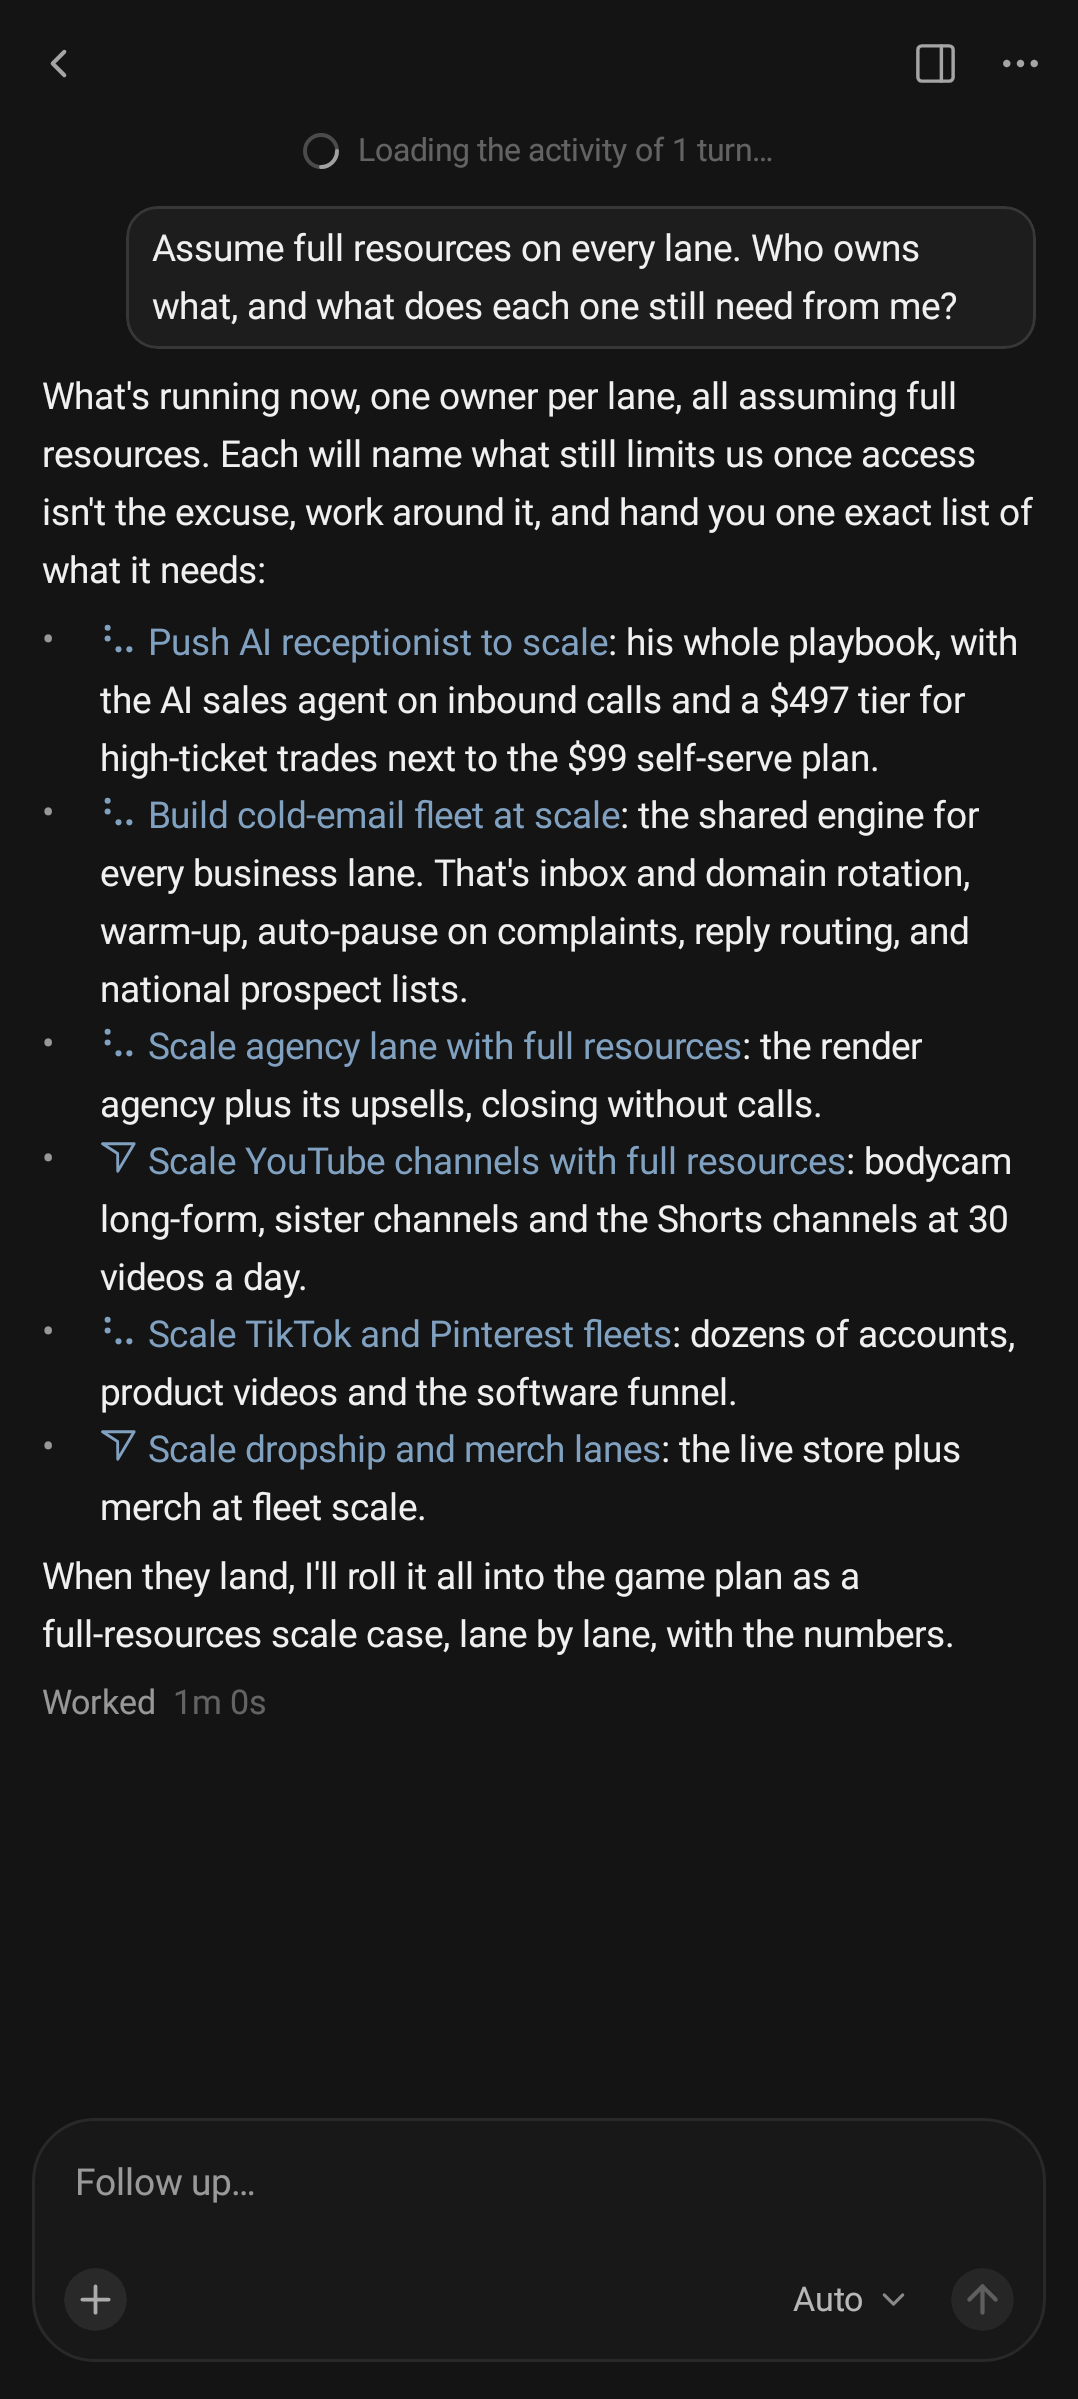
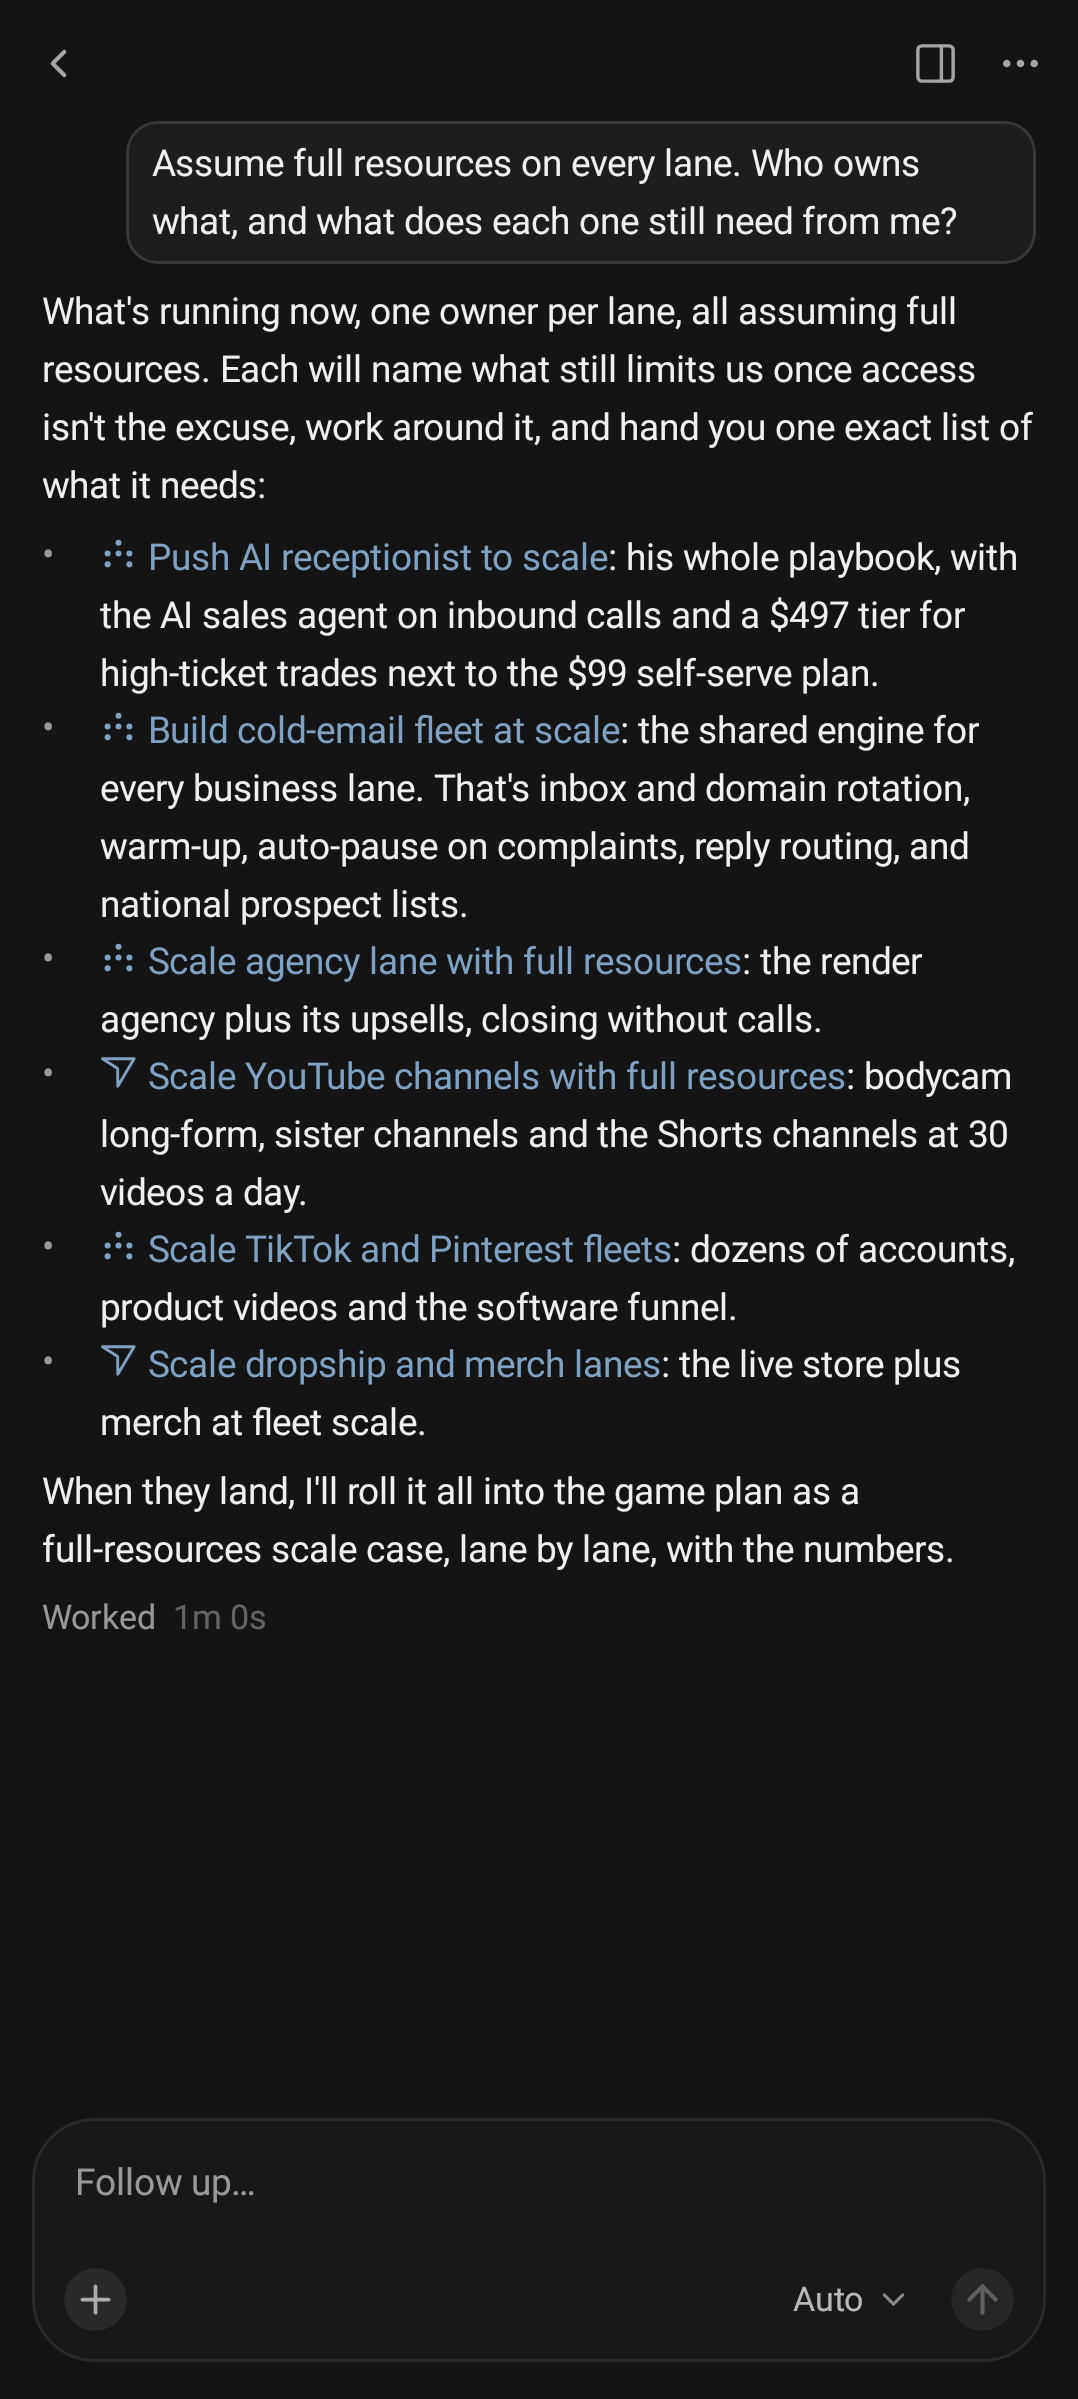
Capture agent link goldens and demo with the dot grid animating
The screenshot test paused the clock only after composing, so the harness had
already cancelled RunningGlyph's frame loop and every frame showed step one.
Pause before composing, step frames while loading, snap to a fixed phase of
the loop for the goldens, and serve the coordinator run's log whole so no
loading spinner sits above the chat.

Changed region(s): [[0.0306, 0.0617, 0.949, 0.7095]]

diff --git a/app/src/test/java/com/cursorforandroid/screenshots/AgentLinkStatusScreenshotTest.kt b/app/src/test/java/com/cursorforandroid/screenshots/AgentLinkStatusScreenshotTest.kt
@@ -13,8 +13,10 @@ import androidx.test.ext.junit.runners.AndroidJUnit4
 import com.cursorforandroid.AppGraph
 import com.cursorforandroid.data.FakeCursorApi
 import com.cursorforandroid.data.FakeRunStreamer
+import com.cursorforandroid.data.api.RunStreamEvent
 import com.cursorforandroid.data.local.SecureKeyStore
 import com.cursorforandroid.data.repo.CursorBackend
+import com.cursorforandroid.domain.RunStatus
 import com.cursorforandroid.ui.components.AgentLinkIcon
 import com.cursorforandroid.ui.conversation.ConversationScreen
 import com.cursorforandroid.ui.theme.CursorTheme
@@ -85,6 +87,10 @@ class AgentLinkStatusScreenshotTest {
             else api.addIdleAgent(lane.id, lane.name, "run-${lane.id}", createdAt = STARTED_AT)
         }
         api.addFinishedAgent(COORDINATOR, "Revenue Scaling Pipeline", Triple("run-coordinator", PROMPT, REPLY), firstRunAt = STARTED_AT)
+        // The finished run's log is served whole, so its activity is read and no "Loading the activity" spinner turns above it.
+        streamer.emit("run-coordinator", RunStreamEvent.Assistant(REPLY))
+        streamer.emit("run-coordinator", RunStreamEvent.Result("run-coordinator", RunStatus.FINISHED, REPLY, 60_000, null))
+        streamer.emit("run-coordinator", RunStreamEvent.Done)
         graph.session.enterDemo()
         graph.agents.refresh()
     }
@@ -98,6 +104,9 @@ class AgentLinkStatusScreenshotTest {
 
     private fun show(mode: ThemeMode) {
         seed()
+        // The test harness cancels an infinite animation for good if it starts while the clock auto-advances, which
+        // would freeze the dot grid on its first step; so the clock is paused from the start and stepped by hand.
+        compose.mainClock.autoAdvance = false
         compose.setContent {
             CursorTheme(mode = mode) {
                 // Ripples on API 31+ animate a noise "sparkle", so a frame caught mid-fade is never reproducible.
@@ -106,8 +115,20 @@ class AgentLinkStatusScreenshotTest {
                 }
             }
         }
-        compose.waitUntil(30_000) { compose.onAllNodes(hasText("Push AI receptionist", substring = true), useUnmergedTree = true).fetchSemanticsNodes().isNotEmpty() }
+        compose.waitUntil(30_000) {
+            compose.mainClock.advanceTimeByFrame()
+            compose.onAllNodes(hasText("Push AI receptionist", substring = true), useUnmergedTree = true).fetchSemanticsNodes().isNotEmpty() &&
+                graph.conversations.state(COORDINATOR).value.traceStatus.pending == 0 &&
+                compose.onAllNodes(hasText("Loading the activity", substring = true), useUnmergedTree = true).fetchSemanticsNodes().isEmpty()
+        }
+        compose.mainClock.advanceTimeBy(SETTLE_MILLIS)
         compose.waitForIdle()
+    }
+
+    /** Moves the clock on to [phase] ms into the grid's loop, so a frame catches the same step however long loading took. */
+    private fun advanceToGridPhase(phase: Long) {
+        val now = compose.mainClock.currentTime
+        compose.mainClock.advanceTimeBy(GRID_LOOP_MILLIS - now % GRID_LOOP_MILLIS + phase)
     }
 
     private fun count(tag: String) = compose.onAllNodes(hasTestTag(tag), useUnmergedTree = true).fetchSemanticsNodes().size
@@ -116,8 +137,7 @@ class AgentLinkStatusScreenshotTest {
         show(mode)
         assertThat(count(AgentLinkIcon.TAG_RUNNING)).isEqualTo(4)
         assertThat(count(AgentLinkIcon.TAG_IDLE)).isEqualTo(2)
-        compose.mainClock.autoAdvance = false
-        compose.mainClock.advanceTimeBy(GRID_STEP_MILLIS)
+        advanceToGridPhase(GRID_PHASE_MILLIS)
         captureScreenRoboImage(File(outDir, "$name.png").path, RoborazziOptions())
     }
 
@@ -134,7 +154,7 @@ class AgentLinkStatusScreenshotTest {
         val mode = if (System.getenv("AGENT_LINK_DEMO_THEME") == "light") ThemeMode.Light else ThemeMode.Dark
         val out = File(dir!!).apply { mkdirs() }
         show(mode)
-        compose.mainClock.autoAdvance = false
+        advanceToGridPhase(0)
         var index = 0
         fun roll(frames: Int) = repeat(frames) {
             compose.mainClock.advanceTimeBy(FRAME_MILLIS)
@@ -161,8 +181,10 @@ class AgentLinkStatusScreenshotTest {
     private companion object {
         const val STARTED_AT = "2026-09-25T09:00:00.000Z"
         const val COORDINATOR = "bc-7e0c3f1a-2b4d-4c6e-8f10-1a2b3c4d5e6f"
-        /** An odd step of the grid's 175 ms frames, so the capture is one pattern and never a boundary between two. */
-        const val GRID_STEP_MILLIS = 612L
+        const val GRID_LOOP_MILLIS = 1_400L
+        /** Mid-way through the grid's fourth 175 ms step, so the capture is one pattern and never a boundary between two. */
+        const val GRID_PHASE_MILLIS = 612L
+        const val SETTLE_MILLIS = 1_000L
         const val FRAME_MILLIS = 40L
 
         val LANES = listOf(
